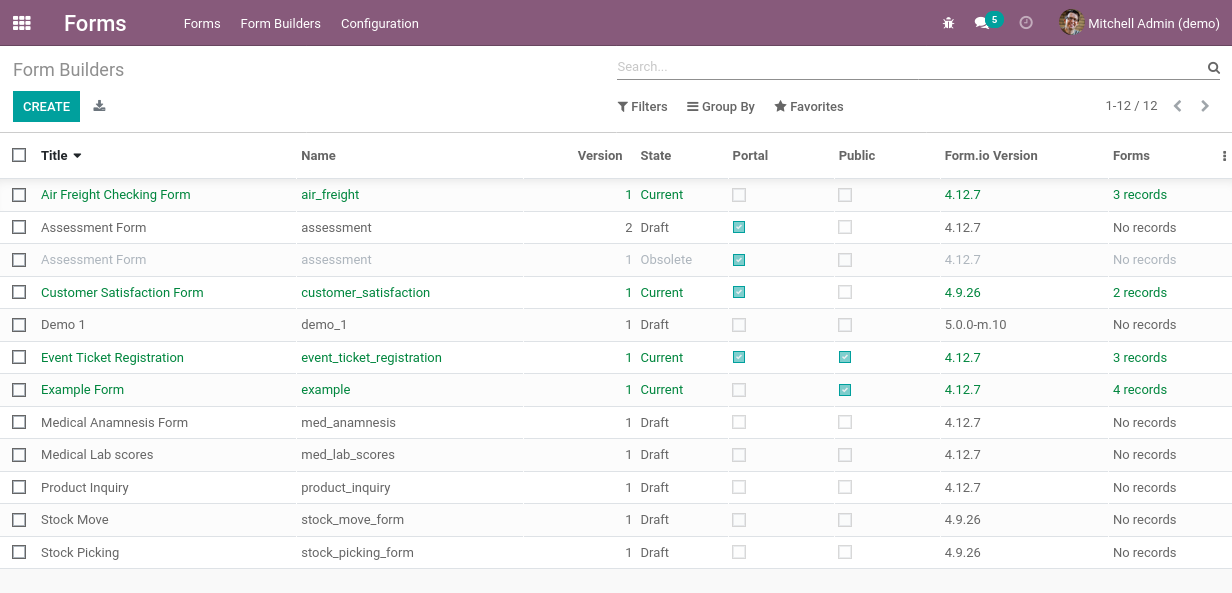
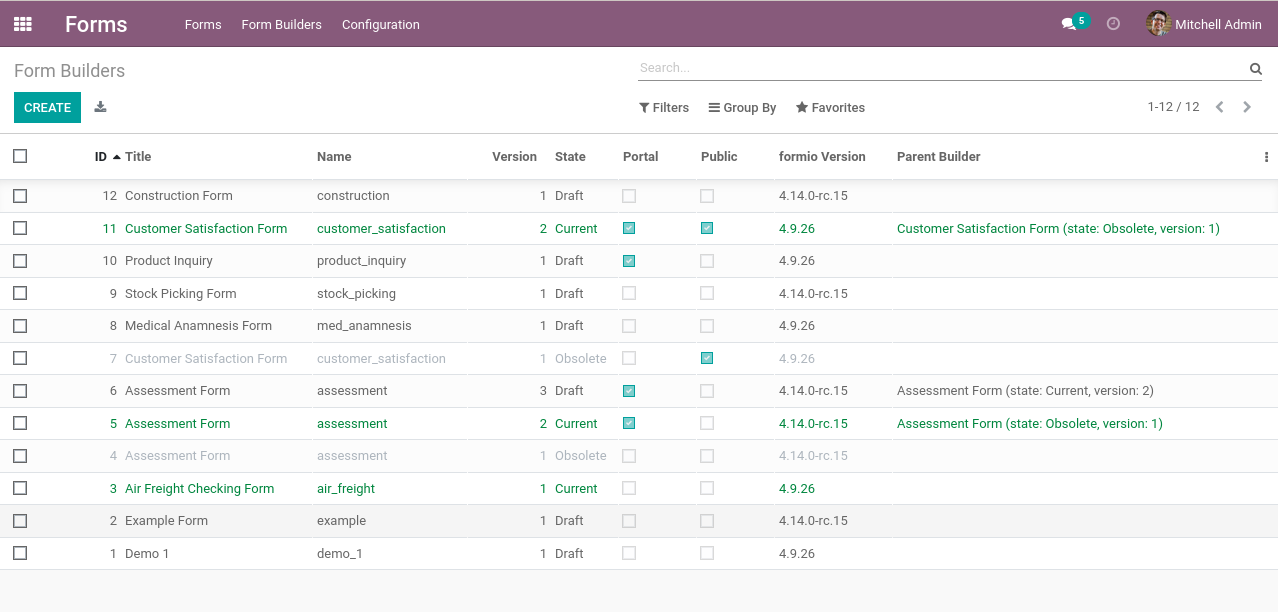
[IMP] Correct misunderstanding, leftover names regarding the formio JS library.

diff --git a/formio/static/description/index.html b/formio/static/description/index.html
@@ -178,11 +178,11 @@
       <img class="oe_demo oe_picture oe_screenshot" src="formio-config-settings.png">
     </div>
     <div class="oe_row_img oe_centered">
-      <h4 class="oe_mb16 text-center">List of Available &amp; Installed (Form.io GUI) Versions </h4>
+      <h4 class="oe_mb16 text-center">List of Available &amp; Installed (formio JS / GUI) Versions </h4>
       <img class="oe_demo oe_picture oe_screenshot" src="formio-version-check-install.png">
     </div>
     <div class="oe_row_img oe_centered">
-      <h4 class="oe_mb16 text-center">Download &amp; Install Available (Form.io GUI) Versions</h4>
+      <h4 class="oe_mb16 text-center">Download &amp; Install Available (formio JS / GUI) Versions</h4>
       <img class="oe_demo oe_picture oe_screenshot" src="formio-version-download-install.png">
     </div>
   </div>

diff --git a/formio_data_api/static/description/index.html b/formio_data_api/static/description/index.html
@@ -133,7 +133,7 @@
     <ul>
       <li>
         Change ETL Odoo field-data (API): field delimter from "." to "__" (2 underscores).<br/>
-        - A dot "." results in undesired submission data, due to the Form.io Javascript library/API.
+        - A dot "." results in undesired submission data, due to the formio Javascript library/API.
         - A dash is allowed, however causing issues with the ETL module (formio_etl).
       </li>
     </ul>

diff --git a/formio/models/formio_builder.py b/formio/models/formio_builder.py
@@ -44,16 +44,16 @@ class Builder(models.Model):
         help="The form title in the current language", tracking=True)
     description = fields.Text("Description")
     formio_version_id = fields.Many2one(
-        'formio.version', string='Form.io Version', required=True,
+        'formio.version', string='formio Version', required=True,
         default=lambda self: self._default_formio_version_id(), tracking=True,
-        help="""Loads the specific Form.io Javascript API/libraries version (sourcecode: \https://github.com/formio/formio.js)""")
-    formio_version_name = fields.Char(related='formio_version_id.name', string='Form.io version', tracking=False) # silly, but avoids duplicate tracking message
-    formio_css_assets = fields.One2many(related='formio_version_id.css_assets', string='Form.io CSS')
-    formio_js_assets = fields.One2many(related='formio_version_id.js_assets', string='Form.io Javascript')
-    formio_js_options_id = fields.Many2one('formio.builder.js.options', string='Form.io Javascript Options template', store=False)
+        help="""Loads the specific formio Javascript API/libraries version (sourcecode: \https://github.com/formio/formio.js)""")
+    formio_version_name = fields.Char(related='formio_version_id.name', string='formio version', tracking=False) # silly, but avoids duplicate tracking message
+    formio_css_assets = fields.One2many(related='formio_version_id.css_assets', string='formio CSS')
+    formio_js_assets = fields.One2many(related='formio_version_id.js_assets', string='formio Javascript')
+    formio_js_options_id = fields.Many2one('formio.builder.js.options', string='formio Javascript Options template', store=False)
     formio_js_options = fields.Text(
         default=lambda self: self._default_formio_js_options(),
-        string='Form.io Javascript Options')
+        string='formio Javascript Options')
     res_model_id = fields.Many2one(
         "ir.model", compute='_compute_res_model_id', store=True,
         string="Model", help="Model as resource this form represents or acts on")

diff --git a/formio/models/res_config_settings.py b/formio/models/res_config_settings.py
@@ -7,10 +7,10 @@ from odoo import api, fields, models, _
 class ResConfigSettings(models.TransientModel):
     _inherit = 'res.config.settings'
 
-    formio_default_version_id = fields.Many2one('formio.version', string='Form.io Version')
-    formio_default_asset_css_ids = fields.Many2many('formio.default.asset.css', string='Form.io CSS assets', context={'active_test': False})
-    formio_default_builder_js_options_id = fields.Many2one('formio.builder.js.options', string='Form.io Builder JS options ID')
-    formio_default_builder_js_options = fields.Text(related='formio_default_builder_js_options_id.value', string='Form.io Builder JS options')
+    formio_default_version_id = fields.Many2one('formio.version', string='formio Version')
+    formio_default_asset_css_ids = fields.Many2many('formio.default.asset.css', string='formio CSS assets', context={'active_test': False})
+    formio_default_builder_js_options_id = fields.Many2one('formio.builder.js.options', string='formio builder JS options ID')
+    formio_default_builder_js_options = fields.Text(related='formio_default_builder_js_options_id.value', string='formio builder JS options')
     formio_github_personal_access_token = fields.Char(string='GitHub personal access token')
 
     @api.model

diff --git a/formio/models/formio_version_github_tag.py b/formio/models/formio_version_github_tag.py
@@ -21,12 +21,12 @@ STATES = [(STATE_AVAILABLE, "Available"), (STATE_INSTALLED, "Installed")]
 class VersionGitHubTag(models.Model):
     _name = 'formio.version.github.tag'
     _inherit = ['mail.thread', 'mail.activity.mixin']
-    _description = 'Formio Version GitHub Tag'
+    _description = 'formio Version GitHub Tag'
     #_order = 'create_date desc, id asc'
 
     # IMPORTANT NOTES
     # ===============
-    # Formio published release ain't available with the GitHub releases API
+    # formio published release ain't available with the GitHub releases API
     # https://developer.github.com/v3/repos/releases/#list-releases
     #
     # GitHub tags API
@@ -34,7 +34,7 @@ class VersionGitHubTag(models.Model):
 
     name = fields.Char(required=True)
     version_name = fields.Char('_compute_fields')
-    formio_version_id = fields.Many2one('formio.version')
+    formio_version_id = fields.Many2one('formio.version', string='formio Version')
     archive_url = fields.Char(compute='_compute_fields', string="Archive URL")
     changelog_url = fields.Char(compute='_compute_fields', string="Changelog URL")
     state = fields.Selection(

diff --git a/formio/controllers/main.py b/formio/controllers/main.py
@@ -181,7 +181,7 @@ class FormioController(http.Controller):
         This example loads data into Select Component, whereby choices
         are the Partner/Contact names with city "Sittard".
 
-        Form.io configuration (in "Data" tab)
+        formio configuration (in "Data" tab)
         -------------------------------------
         - Data Source URL: /data
         - Filter Query: model=res.partner&label=name&domain_fields=city&city=Sittard
@@ -235,7 +235,7 @@ class FormioController(http.Controller):
         are the product-names from a Sale Order.
         The Form(Builder) has the "Resource Model" set to "Quotation" (i.e. sale.order).
 
-        Form.io configuration (in "Data" tab)
+        formio configuration (in "Data" tab)
         -------------------------------------
         - Data Source URL: /res_data
         - Filter Query: field=order_line.product_id&label=name

diff --git a/formio/models/formio_version.py b/formio/models/formio_version.py
@@ -14,7 +14,7 @@ class Version(models.Model):
 
     name = fields.Char(
         "Name", required=True, tracking=True,
-        help="""Form.io release/version.""")
+        help="""formio release/version.""")
     sequence = fields.Integer()
     description = fields.Text("Description")
     translations = fields.Many2many('formio.translation', string='Translations')

diff --git a/formio/__manifest__.py b/formio/__manifest__.py
@@ -4,7 +4,7 @@
 {
     'name': 'Forms',
     'summary': 'Form Builder & integration of professional and versatile Forms to collect any information you need for your business.',
-    'version': '8.27',
+    'version': '8.28',
     'license': 'LGPL-3',
     'author': 'Nova Code',
     'website': 'https://www.novacode.nl',

diff --git a/formio/models/ir_view.py b/formio/models/ir_view.py
@@ -5,8 +5,8 @@ from odoo import fields, models
 
 
 FORMIO_VIEW_TYPES = [
-    ('formio_builder', 'Form.io Builder'),
-    ('formio_form', 'Form.io Form')
+    ('formio_builder', 'formio builder'),
+    ('formio_form', 'formio form')
 ]
 
 

diff --git a/formio/CHANGELOG.md b/formio/CHANGELOG.md
@@ -1,5 +1,9 @@
 # Changelog
 
+### 8.28
+
+- Correct misunderstanding, leftover names regarding the formio JS library.
+
 ### 8.27
 
 - Fix bug/regression in `formio.form` (create) `_prepare_create_vals` and `write`, due to timezone feature added in version 8.25
